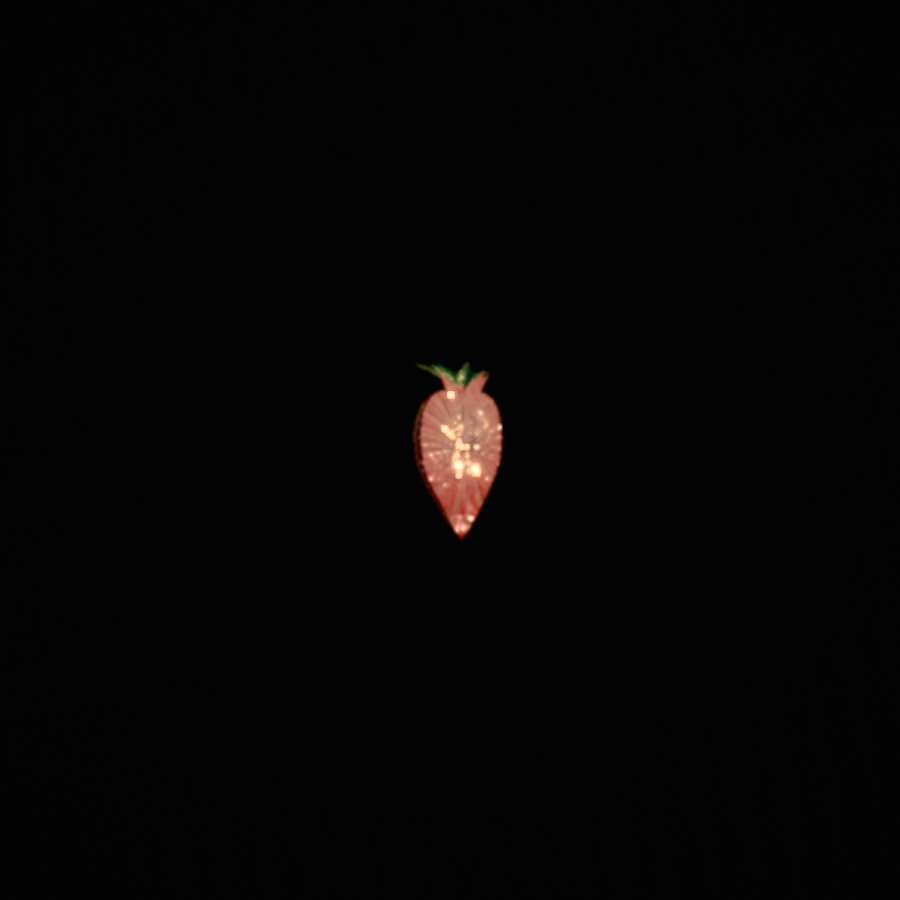
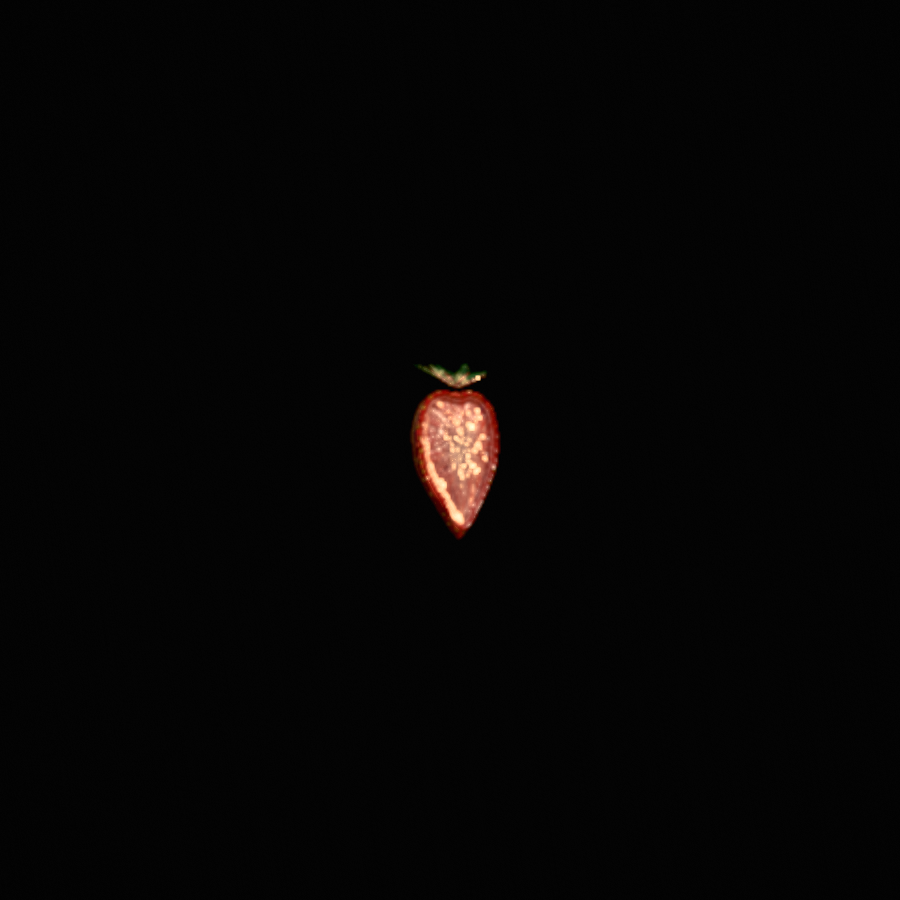
r37b: whole leaves green, the exact-plane cut bug, and lossy-input hardening
The owner's review of the half portraits surfaced three real bugs, two of
them pre-existing and merely EXPOSED by the new tooling.

THE LEAVES, WHOLLY GREEN. The height gate could never work: the half's
geometry is re-origined after every cut (measured: the pineapple half
spans y +/-2.24 against the whole's -1.37..+3.13), so absolute local
height means nothing on a cap. The cutter now carries provenance instead:
crossing points stamp the source skin uv.y (the appendage band sits above
1.0) as p[3] — chainLoops welds on xyz only — buildCapRing resamples it
along the rim, and each angular SECTOR whose rim came from the appendage
band pushes the cap's unused uv.x up by 16 (per-loop voting fails: an
inner-whorl blade's cross-section is often CONNECTED to the body in one
loop). The pineapple flesh gates on step(8, uv().x). Verified by a
magenta-mask render: full blade coverage, converging at the crown plug.

THE ORANGE PINWHEEL (pre-existing, not an r37 regression — reproduced on
the pre-r37 build). A plane passing exactly through mesh vertices (a
perfectly vertical stroke on a lathe whose column seam lies in-plane; the
orange, every time) clips into zero-length segments chainLoops cannot
weld, so the cut fell through to the flat soup cap. Two guards: (1) >6
plane-coincident vertices nudge the plane ~0.06% of the radius before
clipping; (2) if loop ordering still fails — a GRAZING cut along a thin
shell's own mid-plane, the strawberry's sepals — retry with the plane
[…]

Changed region(s): [[0.4356, 0.4044, 0.56, 0.5911]]

diff --git a/src/slice/cutter.js b/src/slice/cutter.js
@@ -171,7 +171,7 @@ function clipVert(A, dA, B, dB) {
  * @param {{n:THREE.Vector3,d:number}} plane in the SAME local space as geom
  * @param {number} rindThickness  world units of peel thickness at the cut edge
  */
-export function cutGeometry(geom, plane, rindThickness = 0.055) {
+export function cutGeometry(geom, plane, rindThickness = 0.055, _retry = 0) {
   emitReset();   // r38: last cut's emit batches were copied out by buildGeometry
   const pos = geom.attributes.position.array;
   const nor = geom.attributes.normal.array;
@@ -186,7 +186,30 @@ export function cutGeometry(geom, plane, rindThickness = 0.055) {
   const P = new SideBuilder(), N = new SideBuilder();
   const segs = []; // pairs of points on the plane, local space
 
-  const nx = plane.n.x, ny = plane.n.y, nz = plane.n.z, pd = plane.d;
+  const nx = plane.n.x, ny = plane.n.y, nz = plane.n.z;
+  let pd = plane.d;
+
+  // ── r37: THE KNIFE-THROUGH-VERTEX GUARD ────────────────────────────────────
+  // A plane that passes EXACTLY through mesh vertices (a perfectly vertical
+  // stroke on a lathe whose column seam sits in that plane — the orange and
+  // the strawberry both do) clips into zero-length segments that chainLoops
+  // cannot weld, so the cut used to fall through to the soup cap: closed, but
+  // a coarse flat pinwheel instead of the real face. Count near-coincident
+  // vertices first; past a handful, nudge the plane by a sub-visible epsilon
+  // (~0.06% of the mesh radius) and cut there instead. The halves move by
+  // less than a mesh vertex ever could on screen; the cap machinery gets a
+  // clean transversal plane.
+  {
+    let onPlane = 0;
+    for (let i = 0; i < pos.length; i += 3) {
+      const d = nx * pos[i] + ny * pos[i + 1] + nz * pos[i + 2] - pd;
+      if (d > -1e-7 && d < 1e-7) onPlane++;
+    }
+    if (onPlane > 6) {
+      if (!geom.boundingSphere) geom.computeBoundingSphere();
+      pd += Math.max(6e-4 * (geom.boundingSphere?.radius || 1), 1e-4);
+    }
+  }
 
   const V = [null, null, null];
   const dist = [0, 0, 0];
@@ -245,6 +268,10 @@ export function cutGeometry(geom, plane, rindThickness = 0.055) {
     const AB = clipVert(A, dA, B, dB);
     const AC = clipVert(A, dA, C, dC);
 
+    // r37: remember where each crossing came from — p[3] carries the SOURCE
+    // skin uv.y (the appendage band sits above 1.0), so a cap loop can later
+    // know it is a crown-leaf cross-section. chainLoops welds on [0..2] only.
+    AB.p[3] = AB.uv[1]; AC.p[3] = AC.uv[1];
     if (loneSign > 0) {
       sink(P, A, AB, AC);
       sink(N, AB, B, C); sink(N, AB, C, AC);
@@ -287,15 +314,47 @@ export function cutGeometry(geom, plane, rindThickness = 0.055) {
     for (let i = 0; i < loops.length; i++) {
       const lp = loops[i];
       if (!ring || lp.length > ring.length) ring = lp;
-      if (scale[i] < 0.28 * maxS) { addFlatCap(P, lp, plane, +1); addFlatCap(N, lp, plane, -1); continue; }
+      // r37: a loop born mostly from the appendage uv band (uv.y > 1) is a
+      // crown-leaf cross-section. Flag it by pushing the cap's UNUSED uv.x
+      // (species derive the angle from position, never from u) up by 16, so
+      // the flesh material can paint leaf interior instead of flesh — in a
+      // frame that survives the half's recentring and any re-cut.
+      let leafy = 0;
+      for (let k = 0; k < lp.length; k++) if ((lp[k][3] || 0) > 1.02) leafy++;
+      const uOff = leafy > lp.length * 0.6 ? 16 : 0;
+      if (scale[i] < 0.28 * maxS) { addFlatCap(P, lp, plane, +1, uOff); addFlatCap(N, lp, plane, -1, uOff); continue; }
       const R = buildCapRing(lp, plane, rindThickness);
-      if (R) { addCap(P, R, +1); addCap(N, R, -1); }
-      else { addFlatCap(P, lp, plane, +1); addFlatCap(N, lp, plane, -1); }
+      if (R) { addCap(P, R, +1); addCap(N, R, -1); }   // rich cap flags per angle
+      else { addFlatCap(P, lp, plane, +1, uOff); addFlatCap(N, lp, plane, -1, uOff); }
     }
   } else if (segs.length >= 3) {
-    // Ordering failed. Cap the unordered segment soup instead — it is flat and
-    // plain, but it is provably closed (see addSoupCap), and a hole you can see
-    // through the fruit is the worst artefact this file can produce.
+    // Ordering failed — usually a GRAZING cut: the plane runs along a thin
+    // shell's own mid-plane (a strawberry sepal on a perfectly vertical cut)
+    // and the crossing segments cannot close. r37: before accepting the soup,
+    // retry ONCE with the plane nudged ~2% of the mesh radius — sub-visible
+    // on the halves, and it converts a degenerate tangency into a clean
+    // transversal cut. Only then fall back to the soup cap.
+    if (_retry < 2) {
+      if (!geom.boundingSphere) geom.computeBoundingSphere();
+      const r = geom.boundingSphere?.radius || 1;
+      // Tangency is ANGULAR, so a small tilt beats a big offset: the
+      // strawberry's sepal fan needed the plane moved 11% of the radius to
+      // clear by offset, but ~4.6 degrees of tilt welds 100% of segments
+      // (2 degrees does not). The graze can be one-sided (the sepals droop),
+      // so try +0.08 rad first and, if that still fails, swing to −0.08 net
+      // on the second retry. Sub-visible either way on halves already flying
+      // apart; the soup cap remains the floor if both retries fail.
+      const axis = Math.abs(plane.n.y) < 0.9
+        ? new THREE.Vector3(0, 1, 0).cross(plane.n).normalize()
+        : new THREE.Vector3(1, 0, 0).cross(plane.n).normalize();
+      const ang = _retry === 0 ? 0.08 : -0.16;          // net −0.08 from the original
+      const dd = _retry === 0 ? 0.004 * r : 0;
+      const n2 = plane.n.clone().applyAxisAngle(axis, ang).normalize();
+      return cutGeometry(geom, { n: n2, d: plane.d + dd }, rindThickness, _retry + 1);
+    }
+    // Still failing off the tangency: the soup is flat and plain, but it is
+    // provably closed (see addSoupCap), and a hole you can see through the
+    // fruit is the worst artefact this file can produce.
     addSoupCap(P, segs, plane, +1); addSoupCap(N, segs, plane, -1);
     ring = [];
     for (let i = 0; i < segs.length; i++) ring.push(segs[i][0]);
@@ -453,7 +512,7 @@ function capScratch(n) {
     par: f(m),                                // resample param: segment + fraction
     sx: f(m), sy: f(m),                       // resampled boundary, smoothed 2D
     nix: f(m), niy: f(m),                     // inward normal of the smoothed loop
-    rs: f(m), uA: f(m), wW: f(m),
+    rs: f(m), uA: f(m), wW: f(m), uy: f(m),   // uy: resampled SOURCE skin uv.y (r37 leaf flag)
     s2: f(m), c2: f(m), s3: f(m), c3: f(m), s5: f(m), c5: f(m),
     s6: f(m), c6: f(m), s7: f(m), c7: f(m), s11: f(m), c11: f(m), s13: f(m), c13: f(m),
     px: f(RINGS * m), py: f(RINGS * m),       // per-ring 2D position in the plane
@@ -633,6 +692,9 @@ function buildCapRing(ring, plane, rind) {
     S.par[w] = si + f;
     crSample(S.ox, S.oy, L, si, f, tmp);
     S.sx[w] = tmp[0]; S.sy[w] = tmp[1];
+    // r37: interpolate the source skin uv.y along with the position — each
+    // resampled rim vertex remembers whether it came from the appendage band
+    S.uy[w] = (ring[si][3] || 0) * (1 - f) + (ring[(si + 1) % L][3] || 0) * f;
   }
 
   // ── per-vertex frame: radius, angle, inward normal, harmonic tables ────────
@@ -916,6 +978,12 @@ function addCap(side, R, sign) {
   let ci = 0, si = 0;
 
   /** write ring m / index i (m < 0 = apex) into the cap buffer */
+  // r37: the leaf flag is PER ANGLE, not per loop — an inner-whorl blade's
+  // cross-section is often CONNECTED to the body in a single loop, so a loop
+  // vote reads "body" and misses it. Each radial sector inherits its rim
+  // vertex's provenance: rim resampled from the appendage uv band (> 1.02)
+  // pushes that sector's cap u up by 16.
+  const uOffAt = (i) => (S.uy[i] > 1.02 ? 16 : 0);
   function wc(m, i, B) {
     const o = ci * 3, ou = ci * 2; ci++;
     if (m < 0) {
@@ -927,7 +995,7 @@ function addCap(side, R, sign) {
     const g = (m * N + i) * 3, a = B ? NB : NA;
     cP[o] = G[g]; cP[o + 1] = G[g + 1]; cP[o + 2] = G[g + 2];
     cN[o] = a[g]; cN[o + 1] = a[g + 1]; cN[o + 2] = a[g + 2];
-    cU[ou] = S.uA[i]; cU[ou + 1] = RV[m];
+    cU[ou] = S.uA[i] + uOffAt(i); cU[ou + 1] = RV[m];
   }
   /** same, into the skin buffer; always group B */
   function ws(m, i) {
@@ -1011,7 +1079,7 @@ function mergeStrip(N, L, par, cb) {
  * could not fully recover, where a wrong cap would be far more visible than a
  * plain one.
  */
-function addFlatCap(side, ring, plane, sign) {
+function addFlatCap(side, ring, plane, sign, uOff = 0) {
   const L = ring.length;
   const cnx = -sign * plane.n.x, cny = -sign * plane.n.y, cnz = -sign * plane.n.z;
   let cx = 0, cy = 0, cz = 0;
@@ -1024,13 +1092,13 @@ function addFlatCap(side, ring, plane, sign) {
   _bt.copy(_n).cross(_t).normalize();
 
   const nrm = [cnx, cny, cnz];
-  const centre = { p: [cx, cy, cz], n: nrm, uv: [0.5, 0.0] };
+  const centre = { p: [cx, cy, cz], n: nrm, uv: [0.5 + uOff, 0.0] };
   const rim = new Array(L);
   let area2 = 0;
   for (let i = 0; i < L; i++) {
     const dx = ring[i][0] - cx, dy = ring[i][1] - cy, dz = ring[i][2] - cz;
     const X = dx * _t.x + dy * _t.y + dz * _t.z, Y = dx * _bt.x + dy * _bt.y + dz * _bt.z;
-    rim[i] = { p: [ring[i][0], ring[i][1], ring[i][2]], n: nrm, uv: [Math.atan2(Y, X) / TAU + 0.5, 1.0], X, Y };
+    rim[i] = { p: [ring[i][0], ring[i][1], ring[i][2]], n: nrm, uv: [Math.atan2(Y, X) / TAU + 0.5 + uOff, 1.0], X, Y };
   }
   for (let i = 0; i < L; i++) {
     const j = (i + 1) % L;

diff --git a/src/play/director.js b/src/play/director.js
@@ -144,9 +144,19 @@ export function createDirector({ seed = 20260806 } = {}) {
   // failure must never take the boot down.
   api.prewarmPipelines = async () => {
     if (!ctx?.renderer?.compileAsync || !ctx.scene) return;
-    const warm = [], junk = [];
-    try {
-      for (const sp of SPECIES_LIST) {
+    // INCREMENTAL, one species per chunk with real-time yields between: a
+    // monolithic compile pass can starve the pointer pipeline long enough
+    // that a drag landing during boot produces no swipe (pointerprobe caught
+    // it under SwiftShader, where each compile chunk costs 100x its device
+    // price). ctx.prewarmed publishes the steady state for harnesses; on
+    // device the chunks are milliseconds and the yields dominate, so input
+    // stays live throughout. compileAsync caches per pipeline, so each pass
+    // only pays its own species' programs.
+    ctx.prewarmed = false;
+    for (const sp of SPECIES_LIST) {
+      await new Promise((r) => setTimeout(r, 150));
+      const warm = [], junk = [];
+      try {
         const geom = geomFor(sp, ctx.quality.fruitSegments);
         const mats = matsFor(sp);
         const whole = new THREE.Mesh(geom, mats);
@@ -164,14 +174,15 @@ export function createDirector({ seed = 20260806 } = {}) {
           }
           if (res && res.neg) junk.push(res.neg);
         }
+        for (const m of warm) ctx.scene.add(m);
+        await ctx.renderer.compileAsync(ctx.scene, ctx.camera);
+      } catch (_) { /* best-effort */ }
+      finally {
+        for (const m of warm) ctx.scene.remove(m);
+        for (const j of junk) j.dispose?.();
       }
-      for (const m of warm) ctx.scene.add(m);
-      await ctx.renderer.compileAsync(ctx.scene, ctx.camera);
-    } catch (_) { /* best-effort */ }
-    finally {
-      for (const m of warm) ctx.scene.remove(m);
-      for (const j of junk) j.dispose?.();
     }
+    ctx.prewarmed = true;
   };
 
   // r37: a governor tier change alters fruitSegments — without this, the next

diff --git a/src/fruit/species.js b/src/fruit/species.js
@@ -3913,16 +3913,17 @@ def({
     };
     // r37 — THE CROWN CUT. A lengthwise slice runs through the crown, and the
     // cutter caps every blade's cross-section with this material, which used
-    // to paint it as yellow flesh ("the leaves have a yellow fleshy interior").
-    // A leaf is green inside and out, and dry. The gate is LOCAL height:
-    // measured on the detail-11 mesh, blade roots emerge at y 1.048 and the
-    // body dome tops out at 1.320, so the blend [0.98, 1.14] takes the blade
-    // interiors and the crown plug while costing only the top sliver of
-    // flesh — which on a real pineapple is exactly where the crown's base
-    // sits. `dry` feeds the factory's r37 hook: no foam, no juice pool, no
-    // wet gloss on a leaf (matte 0.82), and the sss transmission is gated
-    // below for the same reason.
-    const crownCut = () => ss(0.98, 1.14, positionGeometry.y);
+    // to paint it as yellow flesh ("the leaves have a yellow fleshy
+    // interior"). A leaf is green inside and out, and dry. The gate is the
+    // CUTTER'S OWN FLAG: a cap loop born from the skin's appendage uv band
+    // (uv.y > 1) gets its unused cap uv.x pushed up by 16 (species derive
+    // the cap angle from position, never from u), so a leaf cross-section is
+    // marked per LOOP — a frame that survives the half's post-cut recentring
+    // (a positionGeometry.y gate does not: measured, the half's geometry is
+    // re-origined per cut) and every re-cut. `dry` feeds the factory's r37
+    // hook: no foam, no juice pool, no wet gloss on a leaf (matte 0.82), and
+    // the sss transmission is gated below for the same reason.
+    const crownCut = () => step(8.0, uv().x);
     return fleshMaterial(this, {
       dry: () => crownCut(),
       albedo: (cc, u) => {

diff --git a/src/input/blade.js b/src/input/blade.js
@@ -637,8 +637,16 @@ export function createBlade() {
       ev.preventDefault();
     }, { passive: false });
 
+    // r37: rawupdate AND pointermove, not either/or. Environments that
+    // advertise onpointerrawupdate do not always deliver raw updates for
+    // every input source (headless/CDP-synthesized drags delivered ONE raw
+    // sample out of six — pointerprobe caught a stroke whose flushed segment
+    // ended a third of the way across the screen; assistive input sources
+    // are the same risk on device). pointermove is the guaranteed stream;
+    // rawupdate adds rate when it works. Double delivery of the same sample
+    // is free: push() drops any point closer than MIN_STEP.
     if ('onpointerrawupdate' in el) el.addEventListener('pointerrawupdate', handleMove, { passive: true });
-    else el.addEventListener('pointermove', handleMove, { passive: true });
+    el.addEventListener('pointermove', handleMove, { passive: true });
 
     const up = () => { down = false; api.active = false; };
     el.addEventListener('pointerup', up);

diff --git a/HANDOFF.md b/HANDOFF.md
@@ -57,11 +57,11 @@ separate files without collision. `SliceStroke` is the load-bearing noun.
 | file | piece |
 |---|---|
 | `src/render/stage.js` | stage — lighting, grade, DOF, post, blade streak. **Serialised "exposure owner"**: round 3 was lost when two agents moved the same physical quantity in opposite directions. |
-| `src/fruit/species.js` | fruit-mat (flesh/rind TSL) **and** cutter (the cap/collar code). Two owners, disjoint regions, stated explicitly in briefs. r37 — THE CROWN CUT: a lengthwise pineapple slice used to paint the crown-leaf cross-sections as yellow flesh; the flesh factory grew an optional `body.dry(cc,u)` hook (1 = dry matte region: no foam, no juice pool, wet gloss → matte 0.82, no sss) and the pineapple gates on measured LOCAL height (blade roots emerge y 1.048, dome tops 1.320 → blend ss(0.98, 1.14, positionGeometry.y)) painting leaf interiors the crown's own grey-green. r37 also — THE ROCK SHARES ONE MATERIAL: damage moved from a per-instance uniform to `userData('zsDamage','float')` reading mesh.userData; a fresh material per rock was a fresh node graph = a FRESH GPU PROGRAM LINKED ON EVERY ROCK SPAWN (measured: 1 link per toss, cold), i.e. a compile hitch on up to 18% of night-level spawns. Shared cache slot [m, m]; director.remove no longer disposes it; rockhit writes mesh.userData. |
+| `src/fruit/species.js` | fruit-mat (flesh/rind TSL) **and** cutter (the cap/collar code). Two owners, disjoint regions, stated explicitly in briefs. r37 — THE CROWN CUT: a lengthwise pineapple slice used to paint the crown-leaf cross-sections as yellow flesh; the flesh factory grew an optional `body.dry(cc,u)` hook (1 = dry matte region: no foam, no juice pool, wet gloss → matte 0.82, no sss) and the pineapple gates on THE CUTTER'S LEAF FLAG — `step(8, uv().x)` — painting leaf interiors the crown's own grey-green. ⚠ The gate CANNOT be positionGeometry.y: the half's geometry is RE-ORIGINED after every cut (measured: the pineapple half spans y ±2.24 against the whole's −1.37..+3.13), so absolute local height means nothing on a cap. Instead cutter.js carries the source skin uv.y through the clip (crossing points stamp it as p[3]; chainLoops welds on xyz only), resamples it along the cap rim (S.uy), and pushes cap uv.x up by +16 PER ANGULAR SECTOR whose rim came from the appendage band (per-loop voting fails: an inner-whorl blade's cross-section is often CONNECTED to the body in one loop). Flat caps of separate loops use a per-loop vote. r37 also — THE ROCK SHARES ONE MATERIAL: damage moved from a per-instance uniform to `userData('zsDamage','float')` reading mesh.userData; a fresh material per rock was a fresh node graph = a FRESH GPU PROGRAM LINKED ON EVERY ROCK SPAWN (measured: 1 link per toss, cold), i.e. a compile hitch on up to 18% of night-level spawns. Shared cache slot [m, m]; director.remove no longer disposes it; rockhit writes mesh.userData. |
 | `src/fruit/geometry.js` | fruit-geo — silhouette and mesh. r24: `S.leaves` builds REAL leaf blades (buildLeafCrown) — closed pillow strips appended to the body soup, standing FREE of the surface (a crown bump is attached along its whole footprint by construction and can never put air under a leaf; that structural fact killed every bump-calyx attempt). Legal with the cutter because chainLoops caps every closed loop per cut plane. Only the D-variant strawberry uses it; leaves land in the leaf uv band so species.js's `leafFresh` path paints them. |
-| `src/slice/cutter.js`, `slicer.js` | cutter — plane splitting, cap generation. r29: MAX_GENERATION 2 → 3 (contract.js) — quarters cut into eighths; safe because cuts drain one per rendered frame (r19) and director.enforceBudget hard-caps calls/tris, retiring off-screen high-generation pieces first. Measured worst case (6 watermelons, 3 full sweeps to eighths): 29 bodies / 71 calls / ~150k tris vs 120 / 250k budgets. |
+| `src/slice/cutter.js`, `slicer.js` | cutter — plane splitting, cap generation. r37 ROBUSTNESS, both found by the fruitviews half pose: (1) THE KNIFE-THROUGH-VERTEX GUARD — a plane exactly through mesh vertices (a perfectly vertical stroke on a lathe whose column seam lies in-plane; the orange did it every time) clips into zero-length segments chainLoops cannot weld → soup-cap pinwheel; >6 coincident vertices now nudge the plane ~0.06% of the radius first. (2) THE GRAZE RETRY — a plane running along a thin shell's own mid-plane (strawberry sepals on a vertical cut) leaves unweldable soup; before accepting it, the cut retries with the plane tilted ±0.08 rad (tangency is ANGULAR: clearing the sepal fan by offset needed 11% of the radius, 4.6° of tilt welds 100%; the graze can be one-sided so both signs are tried). Soup remains the floor. r29: MAX_GENERATION 2 → 3 (contract.js) — quarters cut into eighths; safe because cuts drain one per rendered frame (r19) and director.enforceBudget hard-caps calls/tris, retiring off-screen high-generation pieces first. Measured worst case (6 watermelons, 3 full sweeps to eighths): 29 bodies / 71 calls / ~150k tris vs 120 / 250k budgets. |
 | `src/juice/fluid.js` | juice — sheets, ligaments, beads, mist. r32: `api.setCompute(on)` (surfaced as `ZS.setFluidCompute`) switches the per-frame turbulence kernel off for fast-forward probes — analytic wind path only, gameplay sim identical. |
-| `src/input/blade.js` | blade — swept steel band, one draw call |
+| `src/input/blade.js` | blade — swept steel band, one draw call. r37: listens to pointermove AND pointerrawupdate, not either/or — environments that advertise rawupdate do not always deliver it for every input source (headless CDP drags delivered 1 raw sample of 12; assistive input is the same risk on device); double delivery is free because push() drops points under MIN_STEP. |
 | `src/play/director.js`, `score.js` | feel / director — spawn, budget governor, scoring. r32: Deep Calm is rock-free (the coda is the bliss reward); THE CONSTELLATION — on a clear sky, from Morning Dew on, ~16% of toss opportunities (22 s cooldown, one rng draw at the gate so L≥2 spawn streams shift, L0-L1 frozen baselines intact) launch a 4-fruit fan (5 from Summer Weight, capped by quality.maxFruit) with a SHARED apex height and even x spacing via spawn()'s new optional `aim` override — the engineered CHORD/FLOURISH moment. ⚠ r22 vocabulary: HARMONY = fruit in ONE stroke (slicer stamps `strokeId` on the slice payload; score.js groups by it, 150 ms close, and emits `'harmony' {size,gain,at,flourish}` — hud renders DYAD/TRIAD/CHORD/FLOURISH·n, haptics double-taps at 3+). PHRASE = the cross-stroke chain (window 0.63 s since r26, +15% by player request; multiplier math unchanged, shown live as the gold ×N chip beside the score); the internal bus event keeps its historical name `'combo'` (audio's shimmer/nudge consume it) and `'phrase' {length}` fires when a 6+ run ends naturally (hud whispers `phrase · n`; never on rockhit or reset). Nothing player-facing says "combo" anywhere. |
 | `src/play/physics.js` | physics — Rapier (new in round 11) |
 | `src/core/prefs.js`, `src/input/haptics.js` | r21: prefs.js is the whole persistence layer (localStorage `zs-prefs`: sound/haptics/bestScore; hud WRITES + emits `'pref' {key,value}` on the bus, audio/haptics/score READ at init). haptics.js maps slice/harmony/rockhit/level to pulses; backend order (r26): 'native' (Capacitor shell — real UIImpactFeedbackGenerator via the injected window.Capacitor global, no import so the web bundle carries zero wrapper bytes) → 'vibrate' (Android) → 'switch' (iOS Safari label-click). r26 diagnostics: `ZS.haptics.state()` {backend, enabled, clicks, pending, grantAgeMs, standalone} on the ?debug strip as `hap switch·Nc[·SA]` — clicks rising with no buzz = WebKit swallows the tick in that context (home-screen standalone is the suspect; shelve until the native wrapper's UIImpactFeedbackGenerator), clicks stuck at 0 = our bug. It — `navigator.vibrate` on Android; on iOS (r23) the LABEL-CLICK technique from ios-vibrator-pro-max (MIT, Sam Denty): a hidden `<label>` wrapping a display:none `<input type="checkbox" switch>`, ticked via `label.click()` (input.click() stopped working on latest iOS) inside a ~850 ms grant opened by any trusted user event (move events refresh it, so mid-drag slices tick); unofficial, try/caught so it can only degrade to silence; swaps to Capacitor UIImpactFeedbackGenerator at native wrap. The settings UI itself (idle-only `···` glyph: sound/haptics/begin again) lives in hud.js, suppressed under `?capture`; r36 THE TITLE SCREEN (hud.js + style.css): the name in the level-name voice over a soft vignette, world playing behind, headphone-outline SVG + "best experienced with headphones or surround audio", "tap anywhere to begin"; the first tap dismisses it (same tap = audio unlock) and the swipe hint (held via `.zs-hint.hold`) takes over; score hidden while up (`.zs-title-up`); suppressed under `?capture`, forced back by `?title` for design shots (shots/title-portrait.png); hint fades after 3 swipes (r34 fixed the fade actually landing: the zsPulse animation held `opacity`, and CSS animations outrank normal declarations, so `.gone{opacity:0}` never won — `.gone` now also sets `animation:none`); `prefers-reduced-motion` stills the callouts and level text. |
